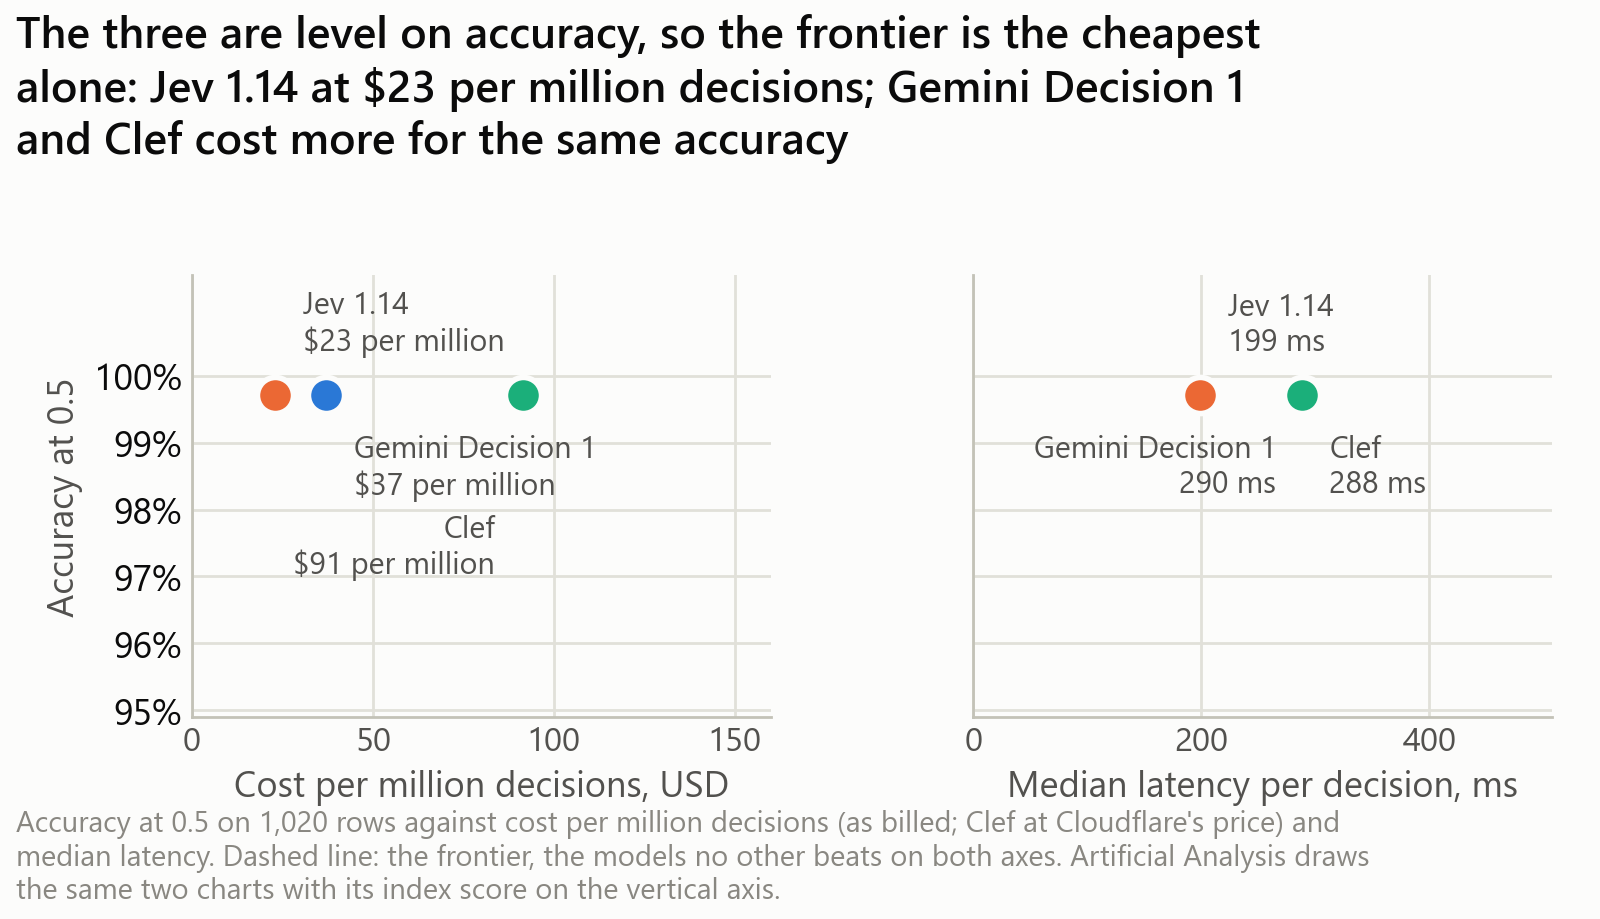
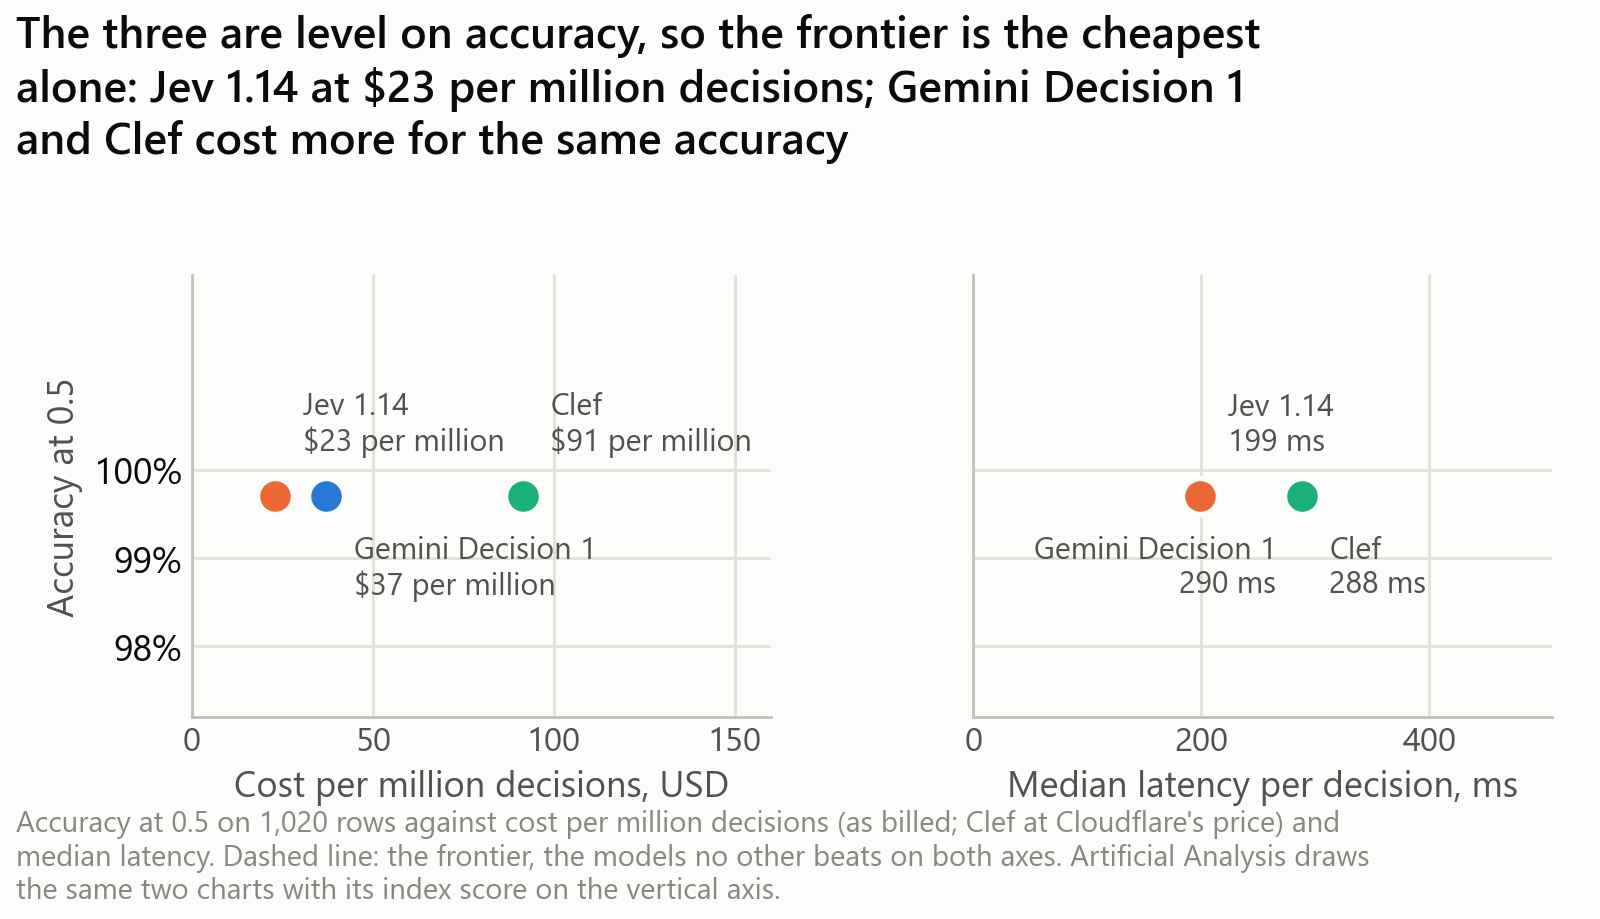
Frontier chart: label placement that tries beside, then below and above, then a second row with a leader line; tighter vertical padding

diff --git a/src/charts.py b/src/charts.py
@@ -125,7 +125,7 @@ def frontier(points: dict) -> list[str]:
 def _place_labels(ax, items, fontsize=11) -> None:
     """Annotate points, trying four slots per label and keeping the first clear of the other labels and points."""
     scale = ax.figure.dpi / 72.0
-    char_w, line_h = fontsize * 0.58 * scale, fontsize * 1.3 * scale
+    char_w, line_h = fontsize * 0.45 * scale, fontsize * 1.3 * scale
     pad = 9 * scale
     boxes = []
     for x, y, _, _ in items:
@@ -136,18 +136,15 @@ def _place_labels(ax, items, fontsize=11) -> None:
     for x, y, text, colour in items:
         lines = text.split("\n")
         w, h = max(len(line) for line in lines) * char_w, len(lines) * line_h
-        row = 14 + h / scale  # a second row of labels below or above the first, in points
+        row = 16 + h / scale  # a second row of labels, clear of the first, in points
+        slots = [((10, 0), right, "center"), ((-10, 0), left, "center"),
+                 ((10, -14), right, "top"), ((-10, -14), left, "top"), ((10, 14), right, "bottom"), ((-10, 14), left, "bottom"),
+                 ((0, -row), "center", "top"), ((0, row), "center", "bottom")]
         px, py = ax.transData.transform((x, y))
-        beside = [((10, 0), right, "center"), ((-10, 0), left, "center")]
-        below = [((10, -14), right, "top"), ((-10, -14), left, "top"), ((10, -row), right, "top"), ((-10, -row), left, "top")]
-        above = [((10, 14), right, "bottom"), ((-10, 14), left, "bottom"), ((10, row), right, "bottom"), ((-10, row), left, "bottom")]
-        near_top = py > frame.y0 + 0.8 * (frame.y1 - frame.y0)
-        near_bottom = py < frame.y0 + 0.2 * (frame.y1 - frame.y0)
-        slots = (below + beside + above) if near_top else (above + beside + below) if near_bottom else (beside + below + above)
         best, least = None, None
         for slot in slots:
             (dx, dy), ha, va = slot
-            x0 = px + dx * scale - (w if ha == left else 0)
+            x0 = px + dx * scale - (w if ha == left else w / 2 if ha == "center" else 0)
             y0 = py + dy * scale - (h if va == "top" else h / 2 if va == "center" else 0)
             box = (x0, y0, x0 + w, y0 + h)
             inside = box[0] >= frame.x0 and box[2] <= frame.x1 and box[1] >= frame.y0 and box[3] <= frame.y1
@@ -161,8 +158,9 @@ def _place_labels(ax, items, fontsize=11) -> None:
         slot, box = best if best else (least[1], least[2])
         boxes.append(box)
         (dx, dy), ha, va = slot
+        leader = dict(arrowstyle="-", color=BASELINE, linewidth=0.8, shrinkA=0, shrinkB=8) if ha == "center" else None
         ax.annotate(text, (x, y), xytext=(dx, dy), textcoords="offset points", ha=ha, va=va, fontsize=fontsize,
-                    color=colour, linespacing=1.2)
+                    color=colour, linespacing=1.2, arrowprops=leader)
 
 
 def titles(tables: dict) -> dict[str, str]:
@@ -430,9 +428,10 @@ def chart_frontier(tables, out_dir, title) -> Path:
         (axes[1], {m: (float(pooled.loc[m, "median_ms"]), float(acc.loc[m, "accuracy"])) for m in models},
          "Median latency per decision, ms", "{:.0f} ms"),
     ]
-    span = max(float(acc.loc[models, "accuracy"].max()) - float(acc.loc[models, "accuracy"].min()), 0.03)
-    low = max(0.0, float(acc.loc[models, "accuracy"].min()) - 1.6 * span)
-    high = float(acc.loc[models, "accuracy"].max()) + 0.6 * span  # may pass 100% so the top labels have room
+    span = float(acc.loc[models, "accuracy"].max()) - float(acc.loc[models, "accuracy"].min())
+    pad = max(0.2 * span, 0.025)
+    low = max(0.0, float(acc.loc[models, "accuracy"].min()) - pad)
+    high = float(acc.loc[models, "accuracy"].max()) + pad  # may pass 100% so labels beside the top points have room
     for ax, points, xlabel, fmt in panels:
         front = frontier(points)
         if len(front) > 1:
